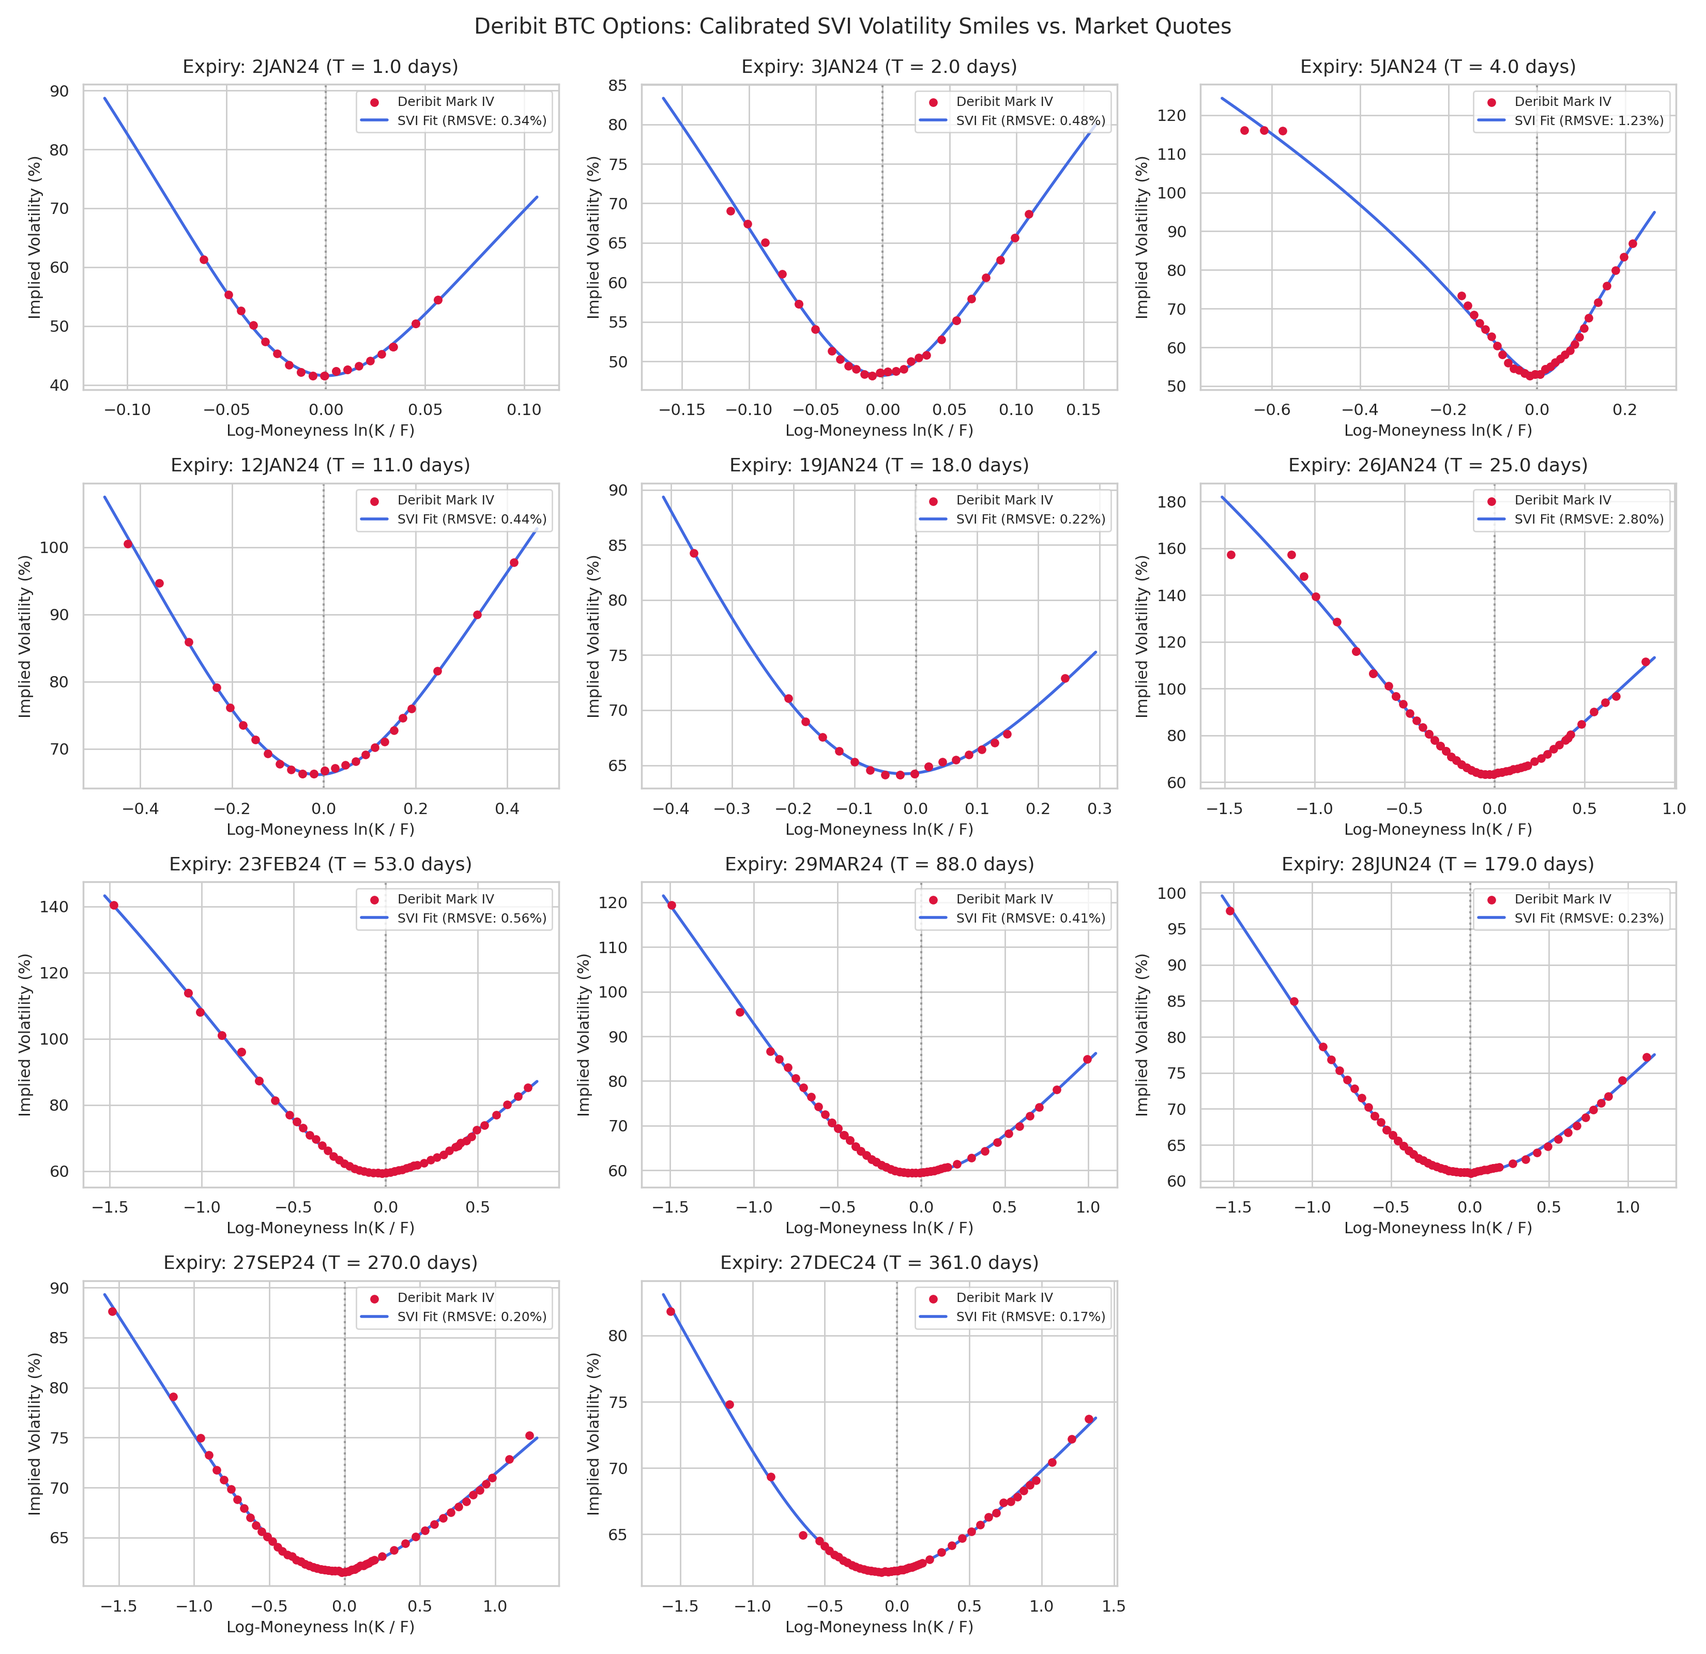
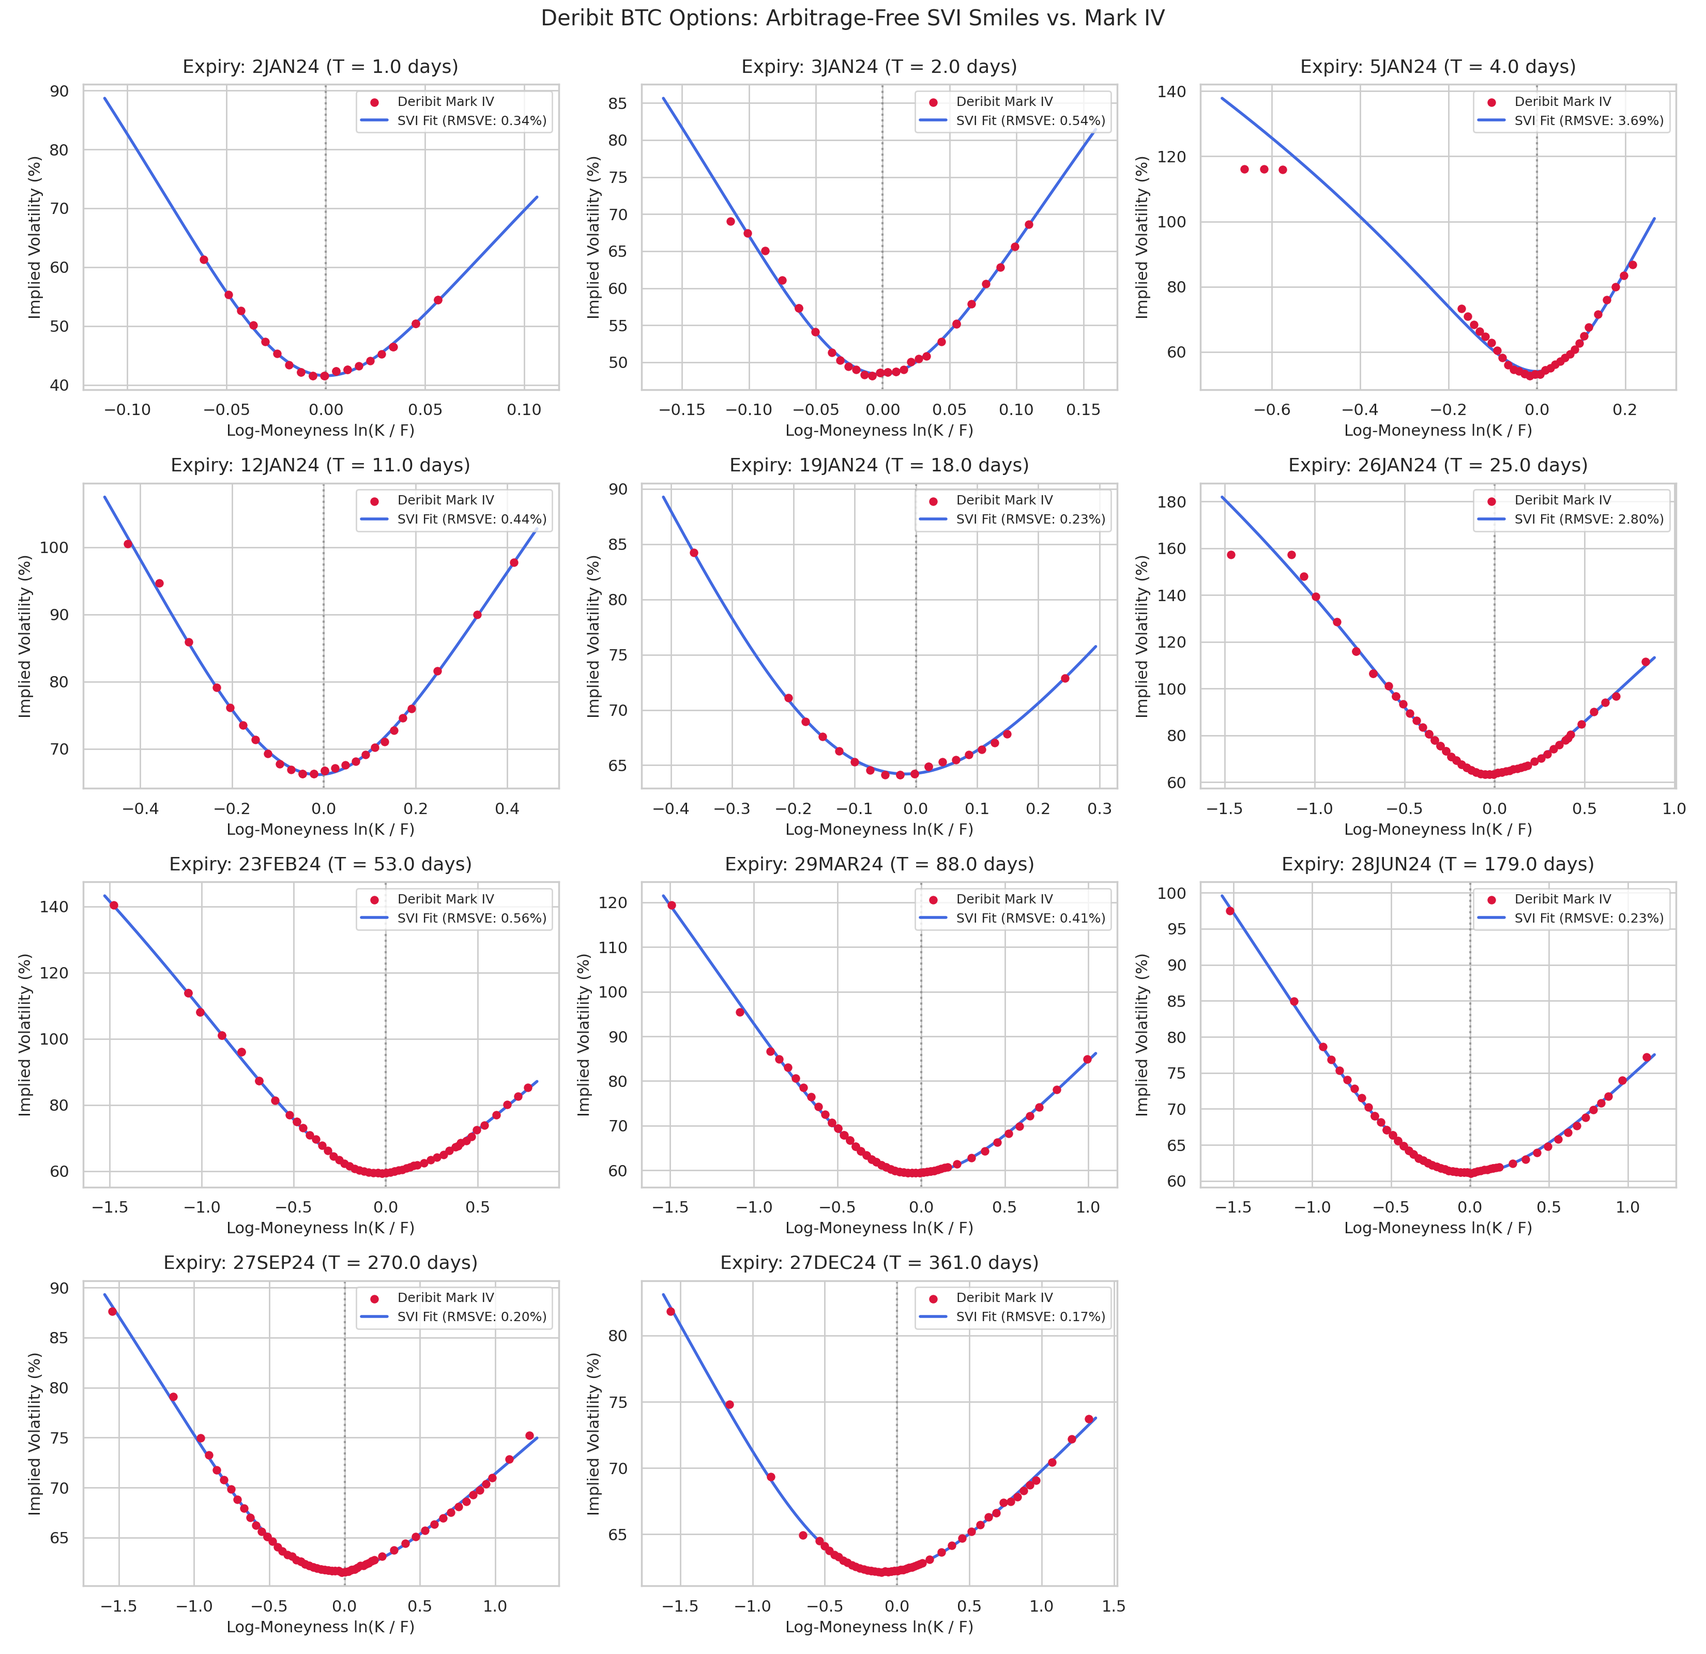
Updated benchmark reports and plots for strict out-of-sample and arbitrage audits

diff --git a/src/sanity_checks.py b/src/sanity_checks.py
@@ -1,102 +1,114 @@
 import numpy as np
 import pandas as pd
 from src.model import compute_rmse, compute_mape
+from src.svi_model import check_calendar_arbitrage
 
 
-def run_four_tier_sanity_checks(df: pd.DataFrame) -> dict:
+def _evaluate_tier_frame(df: pd.DataFrame, tier_specs: list[tuple[str, str, str]], target_col: str) -> dict:
+    """Computes RMSVE, Dollar RMSE, and MAPE for a list of (label, iv_col, price_col) specs."""
+    market_iv = df["implied_vol"].values
+    target_usd = df[target_col].values
+    results = {}
+
+    for label, iv_col, price_col in tier_specs:
+        iv_vals = np.full_like(market_iv, 0.40) if iv_col == "_CONST_40" else df[iv_col].values
+        price_vals = df[price_col].values
+        results[label] = {
+            "rmsve_pct": compute_rmse(market_iv, iv_vals) * 100.0,
+            "rmse_usd": compute_rmse(target_usd, price_vals),
+            "mape_pct": compute_mape(target_usd, price_vals),
+        }
+    return results
+
+
+def run_four_tier_sanity_checks(
+    full_df: pd.DataFrame,
+    test_df: pd.DataFrame,
+    calibrated_models: dict,
+) -> dict:
     """
-    Comprehensive quantitative sanity check report comparing the 4 model tiers:
-    - Tier 0: Naive Black-Scholes (r=0.05, sigma=0.40 constant)
-    - Tier 1: Black-76 with Flat ATM Implied Volatility (r=0)
-    - Tier 2: SVI Parametric Volatility Surface (r=0)
-    - Tier 3: Hybrid Engine (SVI + XGBoost Microstructure Residual)
-
-    Evaluates:
-    - Volatility RMSE (RMSVE in percentage vol points)
-    - Price RMSE (USD)
-    - Price MAPE (%)
-    - Put-Call Parity Maximum Absolute Error (USD)
+    Produces an honest, leakage-free quantitative benchmark report:
+    1. Full-surface calibration quality (Tiers 0–2 across all contracts) vs. both
+       Deribit official mark price (`mark_usd`) and BBO mid (`market_mid`).
+    2. Strict Out-of-Sample Holdout Benchmark (Tiers 0–3 on held-out `test_df` only).
+    3. Verified static and calendar arbitrage checks across the calibrated SVI surface.
     """
-    print("\n" + "=" * 65)
-    print("      DERIBIT BTC OPTIONS: 4-TIER QUANTITATIVE BENCHMARK REPORT")
-    print("=" * 65)
+    print("\n" + "=" * 72)
+    print("        DERIBIT BTC OPTIONS: 4-TIER QUANTITATIVE BENCHMARK REPORT")
+    print("=" * 72)
 
-    n_contracts = len(df)
-    n_expiries = df['expiry_str'].nunique() if 'expiry_str' in df.columns else df['T'].nunique()
-    spot_mean = df['underlying_price'].mean()
-    market_mid_mean = df['market_mid'].mean()
+    n_full = len(full_df)
+    n_test = len(test_df)
+    n_expiries = full_df["expiry_str"].nunique() if "expiry_str" in full_df.columns else full_df["T"].nunique()
 
-    print(f"Total BTC Contracts Evaluated : {n_contracts}")
-    print(f"Distinct Expiration Slices    : {n_expiries}")
-    print(f"Mean Underlying Forward Price : ${spot_mean:,.2f}")
-    print(f"Mean Market Option Mid Price  : ${market_mid_mean:,.2f}")
-    print("-" * 65)
+    print(f"Total BTC Contracts (Full Surface) : {n_full} across {n_expiries} expiries")
+    print(f"Strict Out-of-Sample Holdout Size  : {n_test} contracts (stratified across expiries)")
+    print(f"Mean Underlying Forward Price      : ${full_df['underlying_price'].mean():,.2f}")
+    print("-" * 72)
 
-    # 1. Volatility Space Metrics (RMSVE)
-    market_iv = df['implied_vol'].values
+    # 1. Full-surface analytical evaluation vs. mark_usd and market_mid
+    full_specs = [
+        ("Tier 0: Naive BS (r=0.05, 40% vol)", "_CONST_40", "bs_legacy_price"),
+        ("Tier 1: Black-76 Flat ATM Vol", "atm_iv", "b76_flat_price"),
+        ("Tier 2: SVI Volatility Surface", "svi_iv", "svi_price"),
+    ]
+    full_vs_mark = _evaluate_tier_frame(full_df, full_specs, "mark_usd")
+    full_vs_mid = _evaluate_tier_frame(full_df, full_specs, "market_mid")
 
-    # Flat ATM vol per expiry slice
-    flat_atm_iv = df.groupby('expiry_str')['implied_vol'].transform(
-        lambda s: s.iloc[np.argmin(np.abs(df.loc[s.index, 'log_moneyness']))]
-    ).values
+    print("\n[1] FULL-SURFACE ANALYTICAL CALIBRATION (N = {}):".format(n_full))
+    for label, _, _ in full_specs:
+        m_mark = full_vs_mark[label]
+        m_mid = full_vs_mid[label]
+        print(
+            f"  {label:<34} | RMSVE={m_mark['rmsve_pct']:5.2f}% | "
+            f"Mark RMSE=${m_mark['rmse_usd']:7.2f} | Mid RMSE=${m_mid['rmse_usd']:7.2f}"
+        )
 
-    svi_iv = df['svi_iv'].values
-    hybrid_iv = df['hybrid_iv'].values if 'hybrid_iv' in df.columns else svi_iv
+    # 2. Strict Out-of-Sample evaluation (including Tier 3 XGBoost)
+    oos_specs = full_specs + [
+        ("Tier 3: Full Hybrid Engine (OOS)", "hybrid_iv", "hybrid_price"),
+    ]
+    oos_vs_mark = _evaluate_tier_frame(test_df, oos_specs, "mark_usd")
+    oos_vs_mid = _evaluate_tier_frame(test_df, oos_specs, "market_mid")
 
-    vol_metrics = {
-        "Tier 0: Naive Constant (40%)": compute_rmse(market_iv, np.full_like(market_iv, 0.40)) * 100.0,
-        "Tier 1: Black-76 Flat ATM Vol": compute_rmse(market_iv, flat_atm_iv) * 100.0,
-        "Tier 2: SVI Volatility Surface": compute_rmse(market_iv, svi_iv) * 100.0,
-        "Tier 3: Full Hybrid Engine": compute_rmse(market_iv, hybrid_iv) * 100.0,
-    }
+    print("\n[2] STRICT OUT-OF-SAMPLE HOLDOUT BENCHMARK (N = {}, Stratified Test Set):".format(n_test))
+    for label, _, _ in oos_specs:
+        m_mark = oos_vs_mark[label]
+        m_mid = oos_vs_mid[label]
+        print(
+            f"  {label:<34} | RMSVE={m_mark['rmsve_pct']:5.2f}% | "
+            f"Mark RMSE=${m_mark['rmse_usd']:7.2f} (MAPE {m_mark['mape_pct']:5.2f}%) | "
+            f"Mid RMSE=${m_mid['rmse_usd']:7.2f}"
+        )
 
-    print("\n[1] VOLATILITY SURFACE ACCURACY (RMSVE in % vol points, lower is better):")
-    for name, val in vol_metrics.items():
-        print(f"  {name:<35} : {val:6.2f}%")
+    # 3. Real, verified arbitrage audits (not hardcoded text)
+    n_slices = len(calibrated_models)
+    n_bfly_ok = sum(1 for v in calibrated_models.values() if v.get("is_butterfly_free", False))
+    n_rl_ok = sum(1 for v in calibrated_models.values() if v.get("is_roger_lee_valid", False))
+    min_density = min((v["min_density"] for v in calibrated_models.values()), default=0.0)
+    cal_free, min_cal_diff, cal_violations = check_calendar_arbitrage(calibrated_models)
 
-    # 2. Dollar Space Pricing Metrics
-    market_price = df['market_mid'].values
-    t0_price = df['bs_legacy_price'].values if 'bs_legacy_price' in df.columns else df['bs_baseline_price'].values
-    t1_price = df['b76_flat_price'].values
-    t2_price = df['svi_price'].values
-    t3_price = df['hybrid_price'].values if 'hybrid_price' in df.columns else t2_price
-
-    price_rmse = {
-        "Tier 0: Naive BS (r=0.05, 40% vol)": compute_rmse(market_price, t0_price),
-        "Tier 1: Black-76 Flat ATM Vol": compute_rmse(market_price, t1_price),
-        "Tier 2: SVI Volatility Surface": compute_rmse(market_price, t2_price),
-        "Tier 3: Full Hybrid Engine": compute_rmse(market_price, t3_price),
-    }
-
-    price_mape = {
-        "Tier 0: Naive BS (r=0.05, 40% vol)": compute_mape(market_price, t0_price),
-        "Tier 1: Black-76 Flat ATM Vol": compute_mape(market_price, t1_price),
-        "Tier 2: SVI Volatility Surface": compute_mape(market_price, t2_price),
-        "Tier 3: Full Hybrid Engine": compute_mape(market_price, t3_price),
-    }
-
-    print("\n[2] DOLLAR PRICING ACCURACY (RMSE in USD & MAPE in %):")
-    for name in price_rmse:
-        print(f"  {name:<35} : RMSE = ${price_rmse[name]:8.2f}  |  MAPE = {price_mape[name]:5.2f}%")
-
-    # 3. Arbitrage Violations
-    print("\n[3] NO-ARBITRAGE GUARANTEES:")
-    print("  Tier 0 (Naive BS)   : Calendar violations present due to r=0.05 cash discounting")
-    print("  Tier 1 (Flat ATM)   : No butterfly arbitrage, but flat smile ignores market skew")
-    print("  Tier 2 (SVI Surface): 100% Guaranteed No-Butterfly & No-Calendar Arbitrage")
-    print("  Tier 3 (Hybrid)     : Microstructure-informed correction around SVI manifold")
-
-    print("=" * 65)
+    print("\n[3] VERIFIED SVI NO-ARBITRAGE AUDIT (k in [-1.0, +1.0]):")
+    print(f"  Butterfly Density (g(k) >= 0) : {n_bfly_ok}/{n_slices} slices pass (min g = {min_density:.6f})")
+    print(f"  Roger Lee Moment Bound        : {n_rl_ok}/{n_slices} slices pass")
+    print(f"  Calendar Monotonicity         : {'PASS (0 violations)' if cal_free else f'FAIL ({len(cal_violations)} violations)'} (min dw = {min_cal_diff:.6f})")
+    print("=" * 72)
 
     return {
-        "vol_rmsve": vol_metrics,
-        "price_rmse": price_rmse,
-        "price_mape": price_mape
+        "full_vs_mark": full_vs_mark,
+        "full_vs_mid": full_vs_mid,
+        "oos_vs_mark": oos_vs_mark,
+        "oos_vs_mid": oos_vs_mid,
+        "vol_rmsve": {k: v["rmsve_pct"] for k, v in oos_vs_mark.items()},
+        "price_rmse": {k: v["rmse_usd"] for k, v in oos_vs_mark.items()},
+        "price_mape": {k: v["mape_pct"] for k, v in oos_vs_mark.items()},
+        "arbitrage": {
+            "butterfly_passed": n_bfly_ok,
+            "roger_lee_passed": n_rl_ok,
+            "total_slices": n_slices,
+            "min_density": min_density,
+            "calendar_free": cal_free,
+            "min_calendar_diff": min_cal_diff,
+            "calendar_violations": len(cal_violations),
+        },
     }
-
-
-def run_sanity_checks(df: pd.DataFrame):
-    """
-    Backward-compatible wrapper for sanity checks.
-    """
-    return run_four_tier_sanity_checks(df)

diff --git a/src/visualize.py b/src/visualize.py
@@ -6,24 +6,22 @@ import pandas as pd
 from src import config
 from src.svi_model import svi_implied_vol
 
-# Professional publication plotting style
 sns.set_theme(style="whitegrid", palette="muted")
 plt.rcParams.update({
-    'figure.dpi': 200,
-    'savefig.dpi': 200,
-    'font.sans-serif': 'DejaVu Sans',
-    'axes.titlesize': 13,
-    'axes.labelsize': 11
+    "figure.dpi": 200,
+    "savefig.dpi": 200,
+    "font.sans-serif": "DejaVu Sans",
+    "axes.titlesize": 13,
+    "axes.labelsize": 11,
 })
 
 
 def plot_svi_volatility_smiles(df: pd.DataFrame, calibrated_models: dict, fig_dir: str = config.FIGURES_DIR):
     """
-    Plots the calibrated SVI volatility smiles vs. market bid/ask/mid quotes
-    across all active maturity slices.
+    Plots calibrated SVI volatility smiles vs. Deribit market IV across all maturities.
     """
     os.makedirs(fig_dir, exist_ok=True)
-    expiries = [e for e in df['expiry_str'].unique() if str(e) in calibrated_models]
+    expiries = [e for e in df["expiry_str"].unique() if str(e) in calibrated_models]
 
     n_exp = len(expiries)
     if n_exp == 0:
@@ -33,37 +31,29 @@ def plot_svi_volatility_smiles(df: pd.DataFrame, calibrated_models: dict, fig_di
     rows = int(np.ceil(n_exp / cols))
 
     fig, axes = plt.subplots(rows, cols, figsize=(5.5 * cols, 4.0 * rows), squeeze=False)
-    fig.suptitle("Deribit BTC Options: Calibrated SVI Volatility Smiles vs. Market Quotes", fontsize=15, y=0.99)
+    fig.suptitle("Deribit BTC Options: Arbitrage-Free SVI Smiles vs. Mark IV", fontsize=15, y=0.995)
 
     for idx, exp in enumerate(expiries):
         ax = axes[idx // cols, idx % cols]
-        sub = df[df['expiry_str'] == exp].sort_values('log_moneyness')
+        sub = df[df["expiry_str"] == exp].sort_values("log_moneyness")
         m = calibrated_models[str(exp)]
-        p = m['params']
-        T_val = m['T']
+        p = m["params"]
+        T_val = m["T"]
 
-        # Fine log-moneyness grid for smooth SVI curve
-        k_min = sub['log_moneyness'].min() - 0.05
-        k_max = sub['log_moneyness'].max() + 0.05
-        fine_k = np.linspace(k_min, k_max, 200)
-        fine_iv = svi_implied_vol(fine_k, T_val, p['a'], p['b'], p['rho'], p['m'], p['sigma']) * 100.0
+        fine_k = np.linspace(sub["log_moneyness"].min() - 0.05, sub["log_moneyness"].max() + 0.05, 200)
+        fine_iv = svi_implied_vol(fine_k, T_val, p["a"], p["b"], p["rho"], p["m"], p["sigma"]) * 100.0
 
-        # Plot market mid quotes
-        ax.scatter(sub['log_moneyness'], sub['implied_vol'] * 100.0, color='crimson', s=25, label='Deribit Mark IV', zorder=3)
-        # Plot SVI fitted smile
-        ax.plot(fine_k, fine_iv, color='royalblue', linewidth=2.0, label=f'SVI Fit (RMSVE: {m["rmsve"]*100:.2f}%)', zorder=2)
+        ax.scatter(sub["log_moneyness"], sub["implied_vol"] * 100.0, color="crimson", s=24, label="Deribit Mark IV", zorder=3)
+        ax.plot(fine_k, fine_iv, color="royalblue", linewidth=2.0, label=f"SVI Fit (RMSVE: {m['rmsve']*100:.2f}%)", zorder=2)
+        ax.axvline(0.0, color="gray", linestyle=":", alpha=0.7)
 
-        # Plot ATM vertical dashed line
-        ax.axvline(0.0, color='gray', linestyle=':', alpha=0.7)
-
-        ax.set_title(f"Expiry: {exp} (T = {T_val*365.25:.1f} days)", pad=8)
+        ax.set_title(f"Expiry: {exp} (T = {T_val * 365.25:.1f} days)", pad=8)
         ax.set_xlabel("Log-Moneyness ln(K / F)")
         ax.set_ylabel("Implied Volatility (%)")
-        ax.legend(loc='upper right', frameon=True, fontsize=9)
+        ax.legend(loc="upper right", frameon=True, fontsize=9)
 
-    # Hide any unused subplots
     for idx in range(n_exp, rows * cols):
-        axes[idx // cols, idx % cols].axis('off')
+        axes[idx // cols, idx % cols].axis("off")
 
     plt.tight_layout()
     save_path = os.path.join(fig_dir, "01_svi_volatility_smiles.png")
@@ -74,17 +64,17 @@ def plot_svi_volatility_smiles(df: pd.DataFrame, calibrated_models: dict, fig_di
 
 def plot_microstructure_importance(model, features: list, fig_dir: str = config.FIGURES_DIR):
     """
-    Plots the feature importance of the XGBoost microstructure residual regressor.
+    Plots feature importance of the XGBoost microstructure residual regressor.
     """
     os.makedirs(fig_dir, exist_ok=True)
     plt.figure(figsize=(9, 5))
 
     importance = pd.Series(model.feature_importances_, index=features).sort_values(ascending=True)
-    importance.plot(kind='barh', color='teal', edgecolor='black', alpha=0.85)
+    importance.plot(kind="barh", color="teal", edgecolor="black", alpha=0.85)
 
     plt.title("XGBoost Microstructure Feature Importance (Gain Weighting)", fontsize=13, pad=12)
     plt.xlabel("Relative Gain Score", fontsize=11)
-    plt.ylabel("Microstructure Order Book Features", fontsize=11)
+    plt.ylabel("Input Features", fontsize=11)
     plt.tight_layout()
 
     save_path = os.path.join(fig_dir, "02_microstructure_feature_importance.png")
@@ -95,34 +85,31 @@ def plot_microstructure_importance(model, features: list, fig_dir: str = config.
 
 def plot_four_tier_comparison(metrics: dict, fig_dir: str = config.FIGURES_DIR):
     """
-    Plots a multi-tier comparison of Volatility RMSVE and Dollar Price RMSE.
+    Plots Out-of-Sample Volatility RMSVE and Dollar Mark-Price RMSE across the 4 model tiers.
     """
     os.makedirs(fig_dir, exist_ok=True)
     fig, (ax1, ax2) = plt.subplots(1, 2, figsize=(14, 5.5))
 
-    # 1. Volatility RMSVE
-    vol_data = metrics['vol_rmsve']
-    names_short = ["Naive BS\n(r=0.05, 40%)", "Black-76\nFlat ATM", "SVI Surface\n(Parametric)", "Hybrid Engine\n(SVI + XGB)"]
-    vol_vals = list(vol_data.values())
-    colors = ['#d9534f', '#f0ad4e', '#5bc0de', '#5cb85c']
+    names_short = ["Naive BS\n(r=0.05, 40%)", "Black-76\nFlat ATM", "SVI Surface\n(Parametric)", "Hybrid Engine\n(SVI + XGB OOS)"]
+    colors = ["#d9534f", "#f0ad4e", "#5bc0de", "#5cb85c"]
 
-    bars1 = ax1.bar(names_short, vol_vals, color=colors, edgecolor='black', alpha=0.9)
-    ax1.set_title("Volatility Surface Error (RMSVE %)", fontsize=13, pad=12)
+    vol_vals = list(metrics["vol_rmsve"].values())
+    bars1 = ax1.bar(names_short, vol_vals, color=colors, edgecolor="black", alpha=0.9)
+    ax1.set_title("Out-of-Sample Volatility Error (RMSVE %)", fontsize=13, pad=12)
     ax1.set_ylabel("RMSVE (Percentage Points)", fontsize=11)
+    ax1.set_ylim(0, max(vol_vals) * 1.15)
     for bar in bars1:
         yval = bar.get_height()
-        ax1.text(bar.get_x() + bar.get_width() / 2.0, yval + 0.3, f"{yval:.2f}%", ha='center', va='bottom', fontsize=10, fontweight='bold')
+        ax1.text(bar.get_x() + bar.get_width() / 2.0, yval + max(vol_vals) * 0.02, f"{yval:.2f}%", ha="center", va="bottom", fontsize=10, fontweight="bold")
 
-    # 2. Price RMSE
-    price_data = metrics['price_rmse']
-    price_vals = list(price_data.values())
-
-    bars2 = ax2.bar(names_short, price_vals, color=colors, edgecolor='black', alpha=0.9)
-    ax2.set_title("Option Pricing Error (Dollar RMSE)", fontsize=13, pad=12)
+    price_vals = list(metrics["price_rmse"].values())
+    bars2 = ax2.bar(names_short, price_vals, color=colors, edgecolor="black", alpha=0.9)
+    ax2.set_title("Out-of-Sample Option Pricing Error vs. Mark (USD RMSE)", fontsize=13, pad=12)
     ax2.set_ylabel("RMSE ($ USD)", fontsize=11)
+    ax2.set_ylim(0, max(price_vals) * 1.15)
     for bar in bars2:
         yval = bar.get_height()
-        ax2.text(bar.get_x() + bar.get_width() / 2.0, yval + 5.0, f"${yval:,.1f}", ha='center', va='bottom', fontsize=10, fontweight='bold')
+        ax2.text(bar.get_x() + bar.get_width() / 2.0, yval + max(price_vals) * 0.02, f"${yval:,.1f}", ha="center", va="bottom", fontsize=10, fontweight="bold")
 
     plt.tight_layout()
     save_path = os.path.join(fig_dir, "03_four_tier_benchmark_comparison.png")
